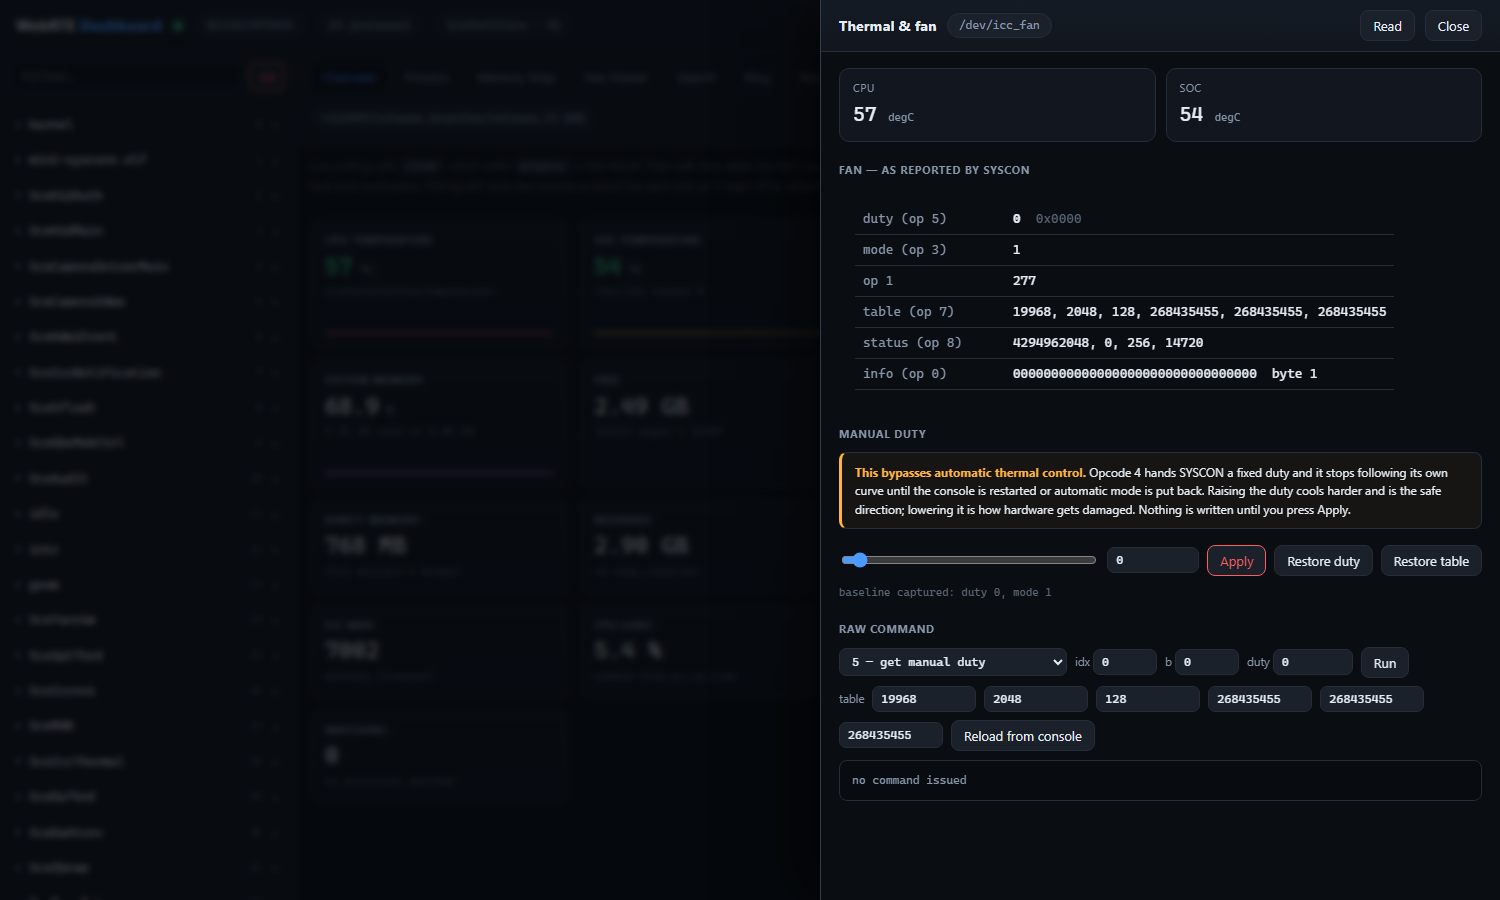
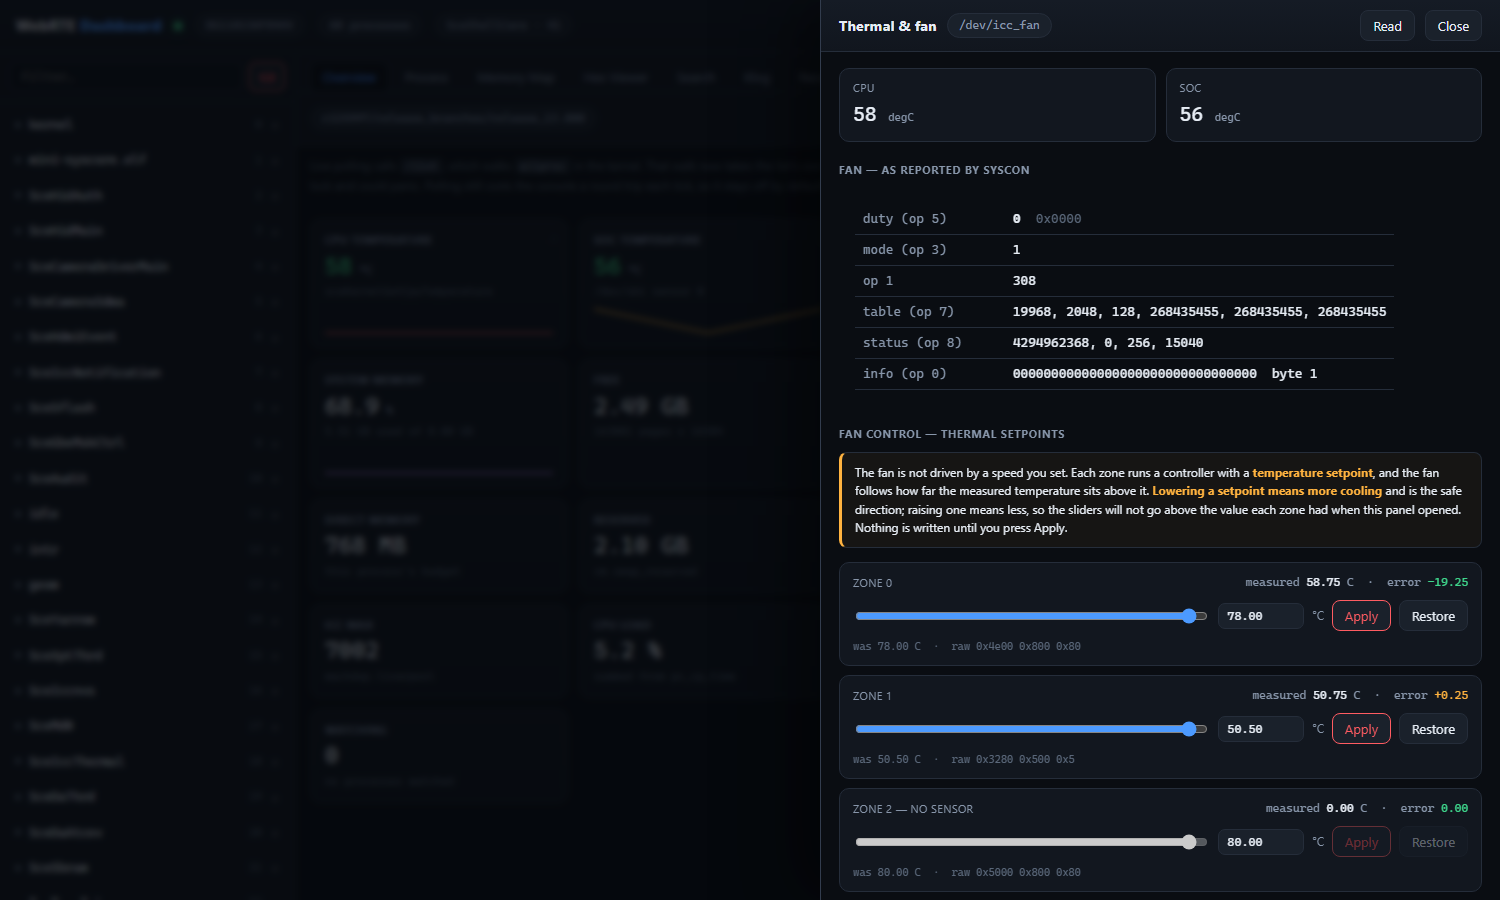
Fan control: setpoints, because manual duty does not work
Opcode 4 is refused by SYSCON on retail hardware. It returns -1 even when
handed back the value it already holds, so no duty makes it work and the
readback sits at 0000 forever -- which is exactly what the panel was showing.

The table is the live control, and every field in it is 8.8 fixed point: d0 is
a setpoint in degrees C, d1 and d2 are gains. Opcode 8 proves the reading --
its word at 16 is the measured temperature, its dword at 4 is the error, and
measured minus setpoint equals that error to the last bit. Zone 0's measured
value also matches sceKernelGetCpuTemperature to the degree. Three zones exist;
zone 2 has no sensor behind it and is disabled.

Verified live: zone 1 from 50.5 to 45.0 took the fan 292 -> 326, and restoring
50.5 settled it back to 300. Nothing latched.

The panel now offers a setpoint per zone with the measured temperature and
error beside it, clamped so a slider cannot go above the value the zone held
when it opened -- raising a setpoint cools less, which is the direction that
damages hardware.

le32 read the error wrong: >>> binds tighter than |, so it applied to the last
term only and returned a signed int32 that s88 then sign-corrected again,
turning -18.75 into -16777234.75.

The recorder also polled the fan every deep tick, and the kernel logs a line on
every read -- that is the icc_fan_get_fan_manual_duty flood in the klog. It now
samples the fan six times less often.

diff --git a/dashboard/dashboard.html b/dashboard/dashboard.html
@@ -609,23 +609,20 @@
       </div>
 
       <div class="dsec">
-        <h5>Manual duty</h5>
+        <h5>Fan control &mdash; thermal setpoints</h5>
         <div class="note" id="thWarn">
-          <b>This bypasses automatic thermal control.</b>
-          Opcode 4 hands SYSCON a fixed duty and it stops following its own curve
-          until the console is restarted or automatic mode is put back.
-          Raising the duty cools harder and is the safe direction; lowering it is
-          how hardware gets damaged. Nothing is written until you press Apply.
+          The fan is not driven by a speed you set. Each zone runs a controller with a
+          <b>temperature setpoint</b>, and the fan follows how far the measured temperature sits
+          above it. <b>Lowering a setpoint means more cooling</b> and is the safe direction;
+          raising one means less, so the sliders will not go above the value each zone had when
+          this panel opened. Nothing is written until you press Apply.
         </div>
-        <div class="row">
-          <input type="range" id="thDuty" min="0" max="255" value="0" disabled>
-          <input type="number" id="thDutyN" min="0" max="65535" value="0" style="width:92px" disabled>
-          <button id="thApply" class="danger" disabled>Apply</button>
-          <button id="thRestore" disabled>Restore duty</button>
-          <button id="thRestoreTable" disabled>Restore table</button>
+        <div id="thZones"><div class="msg">read the fan first</div></div>
+        <div class="row" style="margin-top:10px">
+          <button id="thRestoreAll">Restore every zone</button>
+          <span class="sub" id="thBase" style="font-family:var(--mono);font-size:11px;
+                color:var(--dimmer)">no baseline captured yet</span>
         </div>
-        <div class="sub" id="thBase" style="margin-top:7px;font-family:var(--mono);
-             font-size:11px;color:var(--dimmer)">read the fan first to capture a baseline</div>
       </div>
 
       <div class="dsec">
@@ -636,7 +633,7 @@
             <option value="1">1 &mdash; word</option>
             <option value="2">2 &mdash; set pair (write)</option>
             <option value="3">3 &mdash; get byte</option>
-            <option value="4">4 &mdash; set manual duty (write)</option>
+            <option value="4">4 &mdash; set manual duty (write, refused by SYSCON)</option>
             <option value="5" selected>5 &mdash; get manual duty</option>
             <option value="6">6 &mdash; set table (write)</option>
             <option value="7">7 &mdash; get table</option>
@@ -1694,6 +1691,152 @@ $("#klSave").onclick = () => {
   URL.revokeObjectURL(a.href);
 };
 
+/* ---------------- fan zones ---------------- */
+// What actually drives the fan.
+//
+// Opcode 4 -- set manual duty -- is refused by SYSCON on this hardware: it
+// returns -1 even when handed back the value it already holds, so no value
+// makes it work. The table is the live control instead, and every field in it
+// is 8.8 fixed point:
+//
+//   d0  setpoint, degrees C          zone 0: 0x4E00 = 78.0
+//   d1  gain                         zone 0: 0x0800 = 8.0
+//   d2  gain                         zone 0: 0x0080 = 0.5
+//
+// Opcode 8 confirms the reading exactly: its word at 16 is the measured
+// temperature and its dword at 4 is the error, and measured - setpoint equals
+// that error to the last bit. Measured on zone 0 also matches
+// sceKernelGetCpuTemperature to the degree.
+//
+// Verified live: dropping zone 1 from 50.5 to 45.0 took the fan from 292 to
+// 326 and the temperature down with it; restoring 50.5 settled it back to 300.
+const Q88 = 256;
+const q88 = v => v / Q88;
+const s88 = v => (v & 0x80000000 ? v - 0x100000000 : v) / Q88;
+
+let fanZones = [];        // live: { idx, table, setpoint, measured, error }
+let fanBaseTable = null;  // each zone's table as first read, for Restore
+
+const ZONES = [0, 1, 2];
+
+const readZones = guard(async () => {
+  const out = [];
+  for (const idx of ZONES) {
+    const t = await apiJson("fan", { op: 7, idx });
+    const s = await apiJson("fan", { op: 8, idx });
+    if (t.ret !== 0 || s.ret !== 0) continue;
+
+    const tb = hexBytes(t.hex), sb = hexBytes(s.hex);
+    const table = [0, 1, 2, 3, 4, 5].map(i => le32(tb, 4 + i * 4));
+    out.push({
+      idx, table,
+      setpoint: q88(table[0]),
+      error: s88(le32(sb, 4)),
+      measured: q88(le16(sb, 16)),
+    });
+  }
+
+  fanZones = out;
+  if (fanBaseTable === null && out.length) {
+    fanBaseTable = {};
+    for (const z of out) fanBaseTable[z.idx] = z.table.slice();
+    $("#thBase").textContent = "baseline: "
+      + out.map(z => `zone ${z.idx} ${z.setpoint.toFixed(2)} C`).join(", ");
+  }
+  renderZones();
+});
+
+const hexBytes = h => Uint8Array.from(h.match(/../g).map(x => parseInt(x, 16)));
+// >>> binds tighter than |, so the old form applied it to the last term
+// only and handed back a signed int32 -- which s88 then sign-corrected a
+// second time, turning -18.75 into -16777234.75.
+const le32 = (b, o) => ((b[o] | b[o+1] << 8 | b[o+2] << 16 | b[o+3] << 24) >>> 0);
+const le16 = (b, o) => b[o] | b[o+1] << 8;
+
+function renderZones() {
+  if (!fanZones.length) {
+    $("#thZones").innerHTML = `<div class="msg">no zone answered</div>`;
+    return;
+  }
+
+  $("#thZones").innerHTML = fanZones.map(z => {
+    // A zone reading zero has no sensor behind it and cannot drive anything.
+    const dead = z.measured === 0;
+    const base = fanBaseTable ? q88(fanBaseTable[z.idx][0]) : z.setpoint;
+    const over = z.error > 0;
+    return `<div class="stat" style="margin-bottom:9px">
+      <div class="row" style="justify-content:space-between">
+        <div class="k">zone ${z.idx}${dead ? " &mdash; no sensor" : ""}</div>
+        <div style="font-family:var(--mono);font-size:11.5px;color:var(--dim)">
+          measured <span style="color:var(--fg)">${z.measured.toFixed(2)}</span> C
+          &nbsp;&middot;&nbsp; error
+          <span style="color:${over ? "var(--warn)" : "var(--ok)"}">${
+            (z.error > 0 ? "+" : "") + z.error.toFixed(2)}</span>
+        </div>
+      </div>
+      <div class="row" style="margin-top:7px">
+        <input type="range" data-zr="${z.idx}" min="20" max="${base.toFixed(1)}"
+               step="0.25" value="${z.setpoint.toFixed(2)}" ${dead ? "disabled" : ""}>
+        <input type="number" data-zn="${z.idx}" min="20" max="${base.toFixed(1)}"
+               step="0.25" value="${z.setpoint.toFixed(2)}" style="width:86px"
+               ${dead ? "disabled" : ""}>
+        <span style="font-size:11.5px;color:var(--dim)">&deg;C</span>
+        <button data-za="${z.idx}" class="danger" ${dead ? "disabled" : ""}>Apply</button>
+        <button data-zres="${z.idx}" ${dead ? "disabled" : ""}>Restore</button>
+      </div>
+      <div class="sub" style="font-family:var(--mono);font-size:10.5px;color:var(--dimmer);
+           margin-top:5px">was ${base.toFixed(2)} C &nbsp;·&nbsp; raw ${
+        z.table.slice(0, 3).map(v => "0x" + v.toString(16)).join(" ")}</div>
+    </div>`;
+  }).join("");
+}
+
+const applyZone = guard(async (idx) => {
+  const z = fanZones.find(x => x.idx === idx);
+  if (!z) throw new Error("zone not read yet");
+
+  const deg = +$(`[data-zn="${idx}"]`).value;
+  const base = q88(fanBaseTable[idx][0]);
+  if (!isFinite(deg) || deg < 20) throw new Error("setpoint out of range");
+  if (deg > base) throw new Error(
+    `refusing ${deg} C: above the ${base.toFixed(2)} C this zone started at, `
+    + `which would cool less, not more`);
+
+  const t = z.table.slice();
+  t[0] = Math.round(deg * Q88);
+  const p = { op: 6, idx, b: 0 };
+  t.forEach((v, i) => p["d" + i] = v);
+
+  const r = await apiJson("fan", p);
+  $("#thOut").textContent = JSON.stringify(r, null, 1);
+  ev(`fan: zone ${idx} setpoint ${deg} C (was ${z.setpoint.toFixed(2)})`, "warn");
+  await readFan();
+});
+
+const restoreZone = guard(async (idx) => {
+  if (!fanBaseTable || !fanBaseTable[idx]) throw new Error("no baseline");
+  const p = { op: 6, idx, b: 0 };
+  fanBaseTable[idx].forEach((v, i) => p["d" + i] = v);
+  const r = await apiJson("fan", p);
+  $("#thOut").textContent = JSON.stringify(r, null, 1);
+  ev(`fan: zone ${idx} restored to ${q88(fanBaseTable[idx][0]).toFixed(2)} C`, "");
+  await readFan();
+});
+
+$("#thZones").addEventListener("input", e => {
+  const r = e.target.closest("[data-zr]"), n = e.target.closest("[data-zn]");
+  if (r) $(`[data-zn="${r.dataset.zr}"]`).value = r.value;
+  if (n) $(`[data-zr="${n.dataset.zn}"]`).value = n.value;
+});
+$("#thZones").addEventListener("click", e => {
+  const a = e.target.closest("[data-za]"), r = e.target.closest("[data-zres]");
+  if (a) applyZone(+a.dataset.za);
+  if (r) restoreZone(+r.dataset.zres);
+});
+$("#thRestoreAll").onclick = guard(async () => {
+  for (const idx of Object.keys(fanBaseTable || {})) await restoreZone(+idx);
+});
+
 /* ---------------- flight recorder ---------------- */
 // The sampling loop lives in serve.py, not here: it has to keep running while
 // this tab is hidden, while the page reloads, and while the console is dying.
@@ -1834,7 +1977,6 @@ $("#rcClear").onclick = guard(async () => {
 // Everything here talks to /fan, which is a thin wrapper over the nine
 // /dev/icc_fan ioctls. Opcodes 2, 4 and 6 are the only ones that write, and
 // none of them fire without a click.
-let fanBase = null;          // { duty, mode } captured on the first good read
 let fanTable = null;         // op 7 as it read on the very first open
 let lastTable = null;        // op 7 as of the most recent read
 const FAN_OPS = {
@@ -1903,59 +2045,13 @@ const readFan = guard(async () => {
   if (f.table && fanTable === null) {
     fanTable = f.table.slice();
     fillTableFields(fanTable);
-    $("#thRestoreTable").disabled = false;
   }
   if (f.table) lastTable = f.table.slice();
 
-  if (f.duty != null && fanBase === null) {
-    fanBase = { duty: f.duty, mode: f.mode };
-    $("#thDuty").disabled = $("#thDutyN").disabled = false;
-    $("#thApply").disabled = $("#thRestore").disabled = false;
-    $("#thDuty").max = f.duty > 255 ? 65535 : 255;
-    $("#thDuty").value = $("#thDutyN").value = f.duty;
-    $("#thBase").textContent =
-      `baseline captured: duty ${f.duty}, mode ${f.mode == null ? "?" : f.mode}`;
-  }
-  if (f.duty == null && fanBase === null) {
-    $("#thBase").textContent =
-      "SYSCON rejected the read, so there is no baseline to go back to - " +
-      "the duty control stays locked. Use the raw command box to explore.";
-  }
+  await readZones();
 });
 
 $("#thermRead").onclick = readFan;
-$("#thDuty").oninput = e => { $("#thDutyN").value = e.target.value; };
-$("#thDutyN").oninput = e => { $("#thDuty").value = e.target.value; };
-
-const applyDuty = guard(async () => {
-  const duty = +$("#thDutyN").value;
-  if (!isFinite(duty) || duty < 0 || duty > 65535) throw new Error("duty out of range");
-
-  if (fanBase && duty < fanBase.duty &&
-      !confirm(`This sets the fan BELOW the value it had when the panel opened `
-             + `(${duty} < ${fanBase.duty}). Less airflow than the console chose `
-             + `for itself is how hardware gets cooked. Continue?`)) return;
-
-  const r = await apiJson("fan", { op: 4, idx: 0, duty });
-  $("#thOut").textContent = JSON.stringify(r, null, 1);
-  if (r.ret !== 0 || r.status !== 0) {
-    ev(`fan: set duty ${duty} refused (ret ${r.ret}, status ${r.status})`, "warn");
-  } else {
-    ev(`fan: duty set to ${duty}`, "warn");
-  }
-  await readFan();
-});
-
-const restoreDuty = guard(async () => {
-  if (!fanBase) throw new Error("no baseline captured");
-  const r = await apiJson("fan", { op: 4, idx: 0, duty: fanBase.duty });
-  $("#thOut").textContent = JSON.stringify(r, null, 1);
-  ev(`fan: restored duty ${fanBase.duty}`, "");
-  await readFan();
-});
-
-$("#thApply").onclick = applyDuty;
-$("#thRestore").onclick = restoreDuty;
 
 function fillTableFields(t) {
   for (let i = 0; i < 6; i++) $("#thD" + i).value = t && t[i] != null ? t[i] : 0;
@@ -2002,16 +2098,6 @@ const runFanOp = guard(async () => {
 });
 $("#thRun").onclick = runFanOp;
 
-const restoreTable = guard(async () => {
-  if (!fanTable) throw new Error("no table captured");
-  const p = { op: 6, idx: 0, b: 0 };
-  fanTable.forEach((v, i) => p["d" + i] = v);
-  const r = await apiJson("fan", p);
-  $("#thOut").textContent = JSON.stringify(r, null, 1);
-  ev(`fan: table restored to ${fanTable.join(", ")}`, "");
-  await readFan();
-});
-$("#thRestoreTable").onclick = restoreTable;
 
 // Deep links, run last so every handler above already exists: ?tab=klog opens
 // that tab, &auto=1 also pulls a first round of data. Handy as a bookmark, and

diff --git a/dashboard/recorder.py b/dashboard/recorder.py
@@ -37,6 +37,10 @@ POST_TRIGGER   = 20            # samples to keep collecting after an incident
 # we care about; the rest moves slowly enough to sample every few ticks.
 DEEP_EVERY = 4
 
+# Reading the fan makes the kernel log a line, so it is sampled far more slowly
+# than everything else -- about once every ten seconds at the default period.
+FAN_EVERY = 6
+
 
 class Recorder:
     def __init__(self, ip, port=771, outdir=None):
@@ -159,11 +163,17 @@ class Recorder:
                 s["uptime"] = struct.unpack_from(
                     "<q", self._kread(self._kbase + K_TIME_UPTIME, 8), 0)[0]
                 s["cp"] = self._cp_times()
-                try:
-                    f = self._json("/fan")
-                    s["fan"] = f.get("op1")
-                except (OSError, ValueError):
-                    s["fan"] = None
+
+                # The kernel prints a klog line on every fan read, so polling it
+                # at the deep rate buries the log in icc_fan_get_fan_manual_duty.
+                # It moves slowly; once every FAN_EVERY deep ticks is plenty.
+                if self.tick % (self.deep_every * FAN_EVERY) == 1:
+                    try:
+                        s["fan"] = self._json("/fan").get("op1")
+                    except (OSError, ValueError):
+                        s["fan"] = None
+                elif self._last_deep:
+                    s["fan"] = self._last_deep.get("fan")
 
             else:
                 for k in ("uptime", "cp", "fan"):

diff --git a/README.md b/README.md
@@ -176,32 +176,58 @@ pause, resume, signal, and kill.
 
 `/dev/icc_fan` is a real character device. Its ioctl handler forwards nine commands to
 SYSCON's fan service, and one of them carries the kernel's own string
-`icc_fan_get_fan_manual_duty` — which is how the get/set duty pair was identified.
+`icc_fan_get_fan_manual_duty` — which is how the opcodes were identified.
 
 ![Thermal and fan](dashboard/docs/thermal.png)
+
+**The fan is not driven by a speed you set.** Opcode 4, set manual duty, is *refused* by
+SYSCON on retail hardware: it returns `-1` even when handed back the value it already holds,
+so no value makes it work, and `duty` reads `0000` forever.
+
+What actually drives the fan is the **table**, and every field in it is **8.8 fixed point**:
+
+| zone | `d0` setpoint | `d1` gain | `d2` gain |
+|---|---|---|---|
+| 0 | `0x4E00` = **78.0 °C** | `0x0800` = 8.0 | `0x0080` = 0.5 |
+| 1 | `0x3280` = **50.5 °C** | `0x0500` = 5.0 | `0x0005` = 0.02 |
+| 2 | `0x5000` = **80.0 °C** | `0x0800` = 8.0 | `0x0080` = 0.5 |
+
+Each zone runs a controller: the fan follows how far the measured temperature sits **above**
+its setpoint. Opcode 8 confirms the reading exactly — its word at offset 16 is the measured
+temperature, its dword at 4 is the error, and *measured − setpoint* equals that error to the
+last bit. Zone 0's measured value also matches `sceKernelGetCpuTemperature` to the degree.
+Zone 2 reads zero on this hardware: no sensor behind it, so the panel disables it.
+
+Verified live, twice: dropping zone 1 from 50.5 °C to 45.0 took the fan from **292 to 326**
+and the temperature down with it, and restoring 50.5 settled it back to **300**. Nothing
+latched.
+
+So the control is a **setpoint in °C**, per zone. Lower it and the console cools harder.
 
 | op | ioctl | what it does |
 |---|---|---|
 | 0 | `0xC0168F01` | info block, 16 bytes |
-| 1 | `0xC0148F02` | current fan value |
-| 2 | `0xC0048F03` | set pair **(writes)** |
+| 1 | `0xC0148F02` | fan output |
+| 2 | `0xC0048F03` | set byte **(writes)** |
 | 3 | `0xC0048F04` | get byte |
-| 4 | `0xC0068F05` | **set manual duty (writes)** |
+| 4 | `0xC0068F05` | set manual duty **(refused by SYSCON)** |
 | 5 | `0xC0068F06` | get manual duty |
-| 6 | `0xC01C8F07` | **set table (writes)** |
+| 6 | `0xC01C8F07` | **set table (writes) — this is the control** |
 | 7 | `0xC01C8F08` | get table |
-| 8 | `0xC0148F09` | status |
+| 8 | `0xC0148F09` | measured temperature and error |
+
+Indices 0, 1 and 2 are valid; 3 and above return `-1`.
 
 > ### ⚠ Read before touching the fan
 >
-> Writing to SYSCON **bypasses the console's automatic thermal control**. Raising the fan
-> cools harder and is the safe direction; lowering it is how hardware gets damaged.
+> **Lowering a setpoint means more cooling and is the safe direction. Raising one means
+> less.** The sliders will not go above the value each zone held when the panel opened, and
+> **Restore** puts that value back.
 >
-> Opcode 6 is the dangerous one. Sending it with an all-zero table pins the fan at full
-> speed, and **SYSCON latches that** — restoring the original table does not bring the speed
-> back down. Only a restart clears it. The panel now refuses to send an all-zero table at
-> all, pre-fills the six values from the console, and keeps a **Restore table** button
-> holding whatever was read when you opened it.
+> Writing an **all-zero table** is the one thing that genuinely bites: it means "target
+> 0 °C", the controller saturates, and SYSCON holds the fan at full speed even after the
+> table is restored — only a restart clears it. The panel refuses to send an all-zero table
+> and pre-fills the six fields from the console.
 >
 > Nothing here writes unless you click.
 
